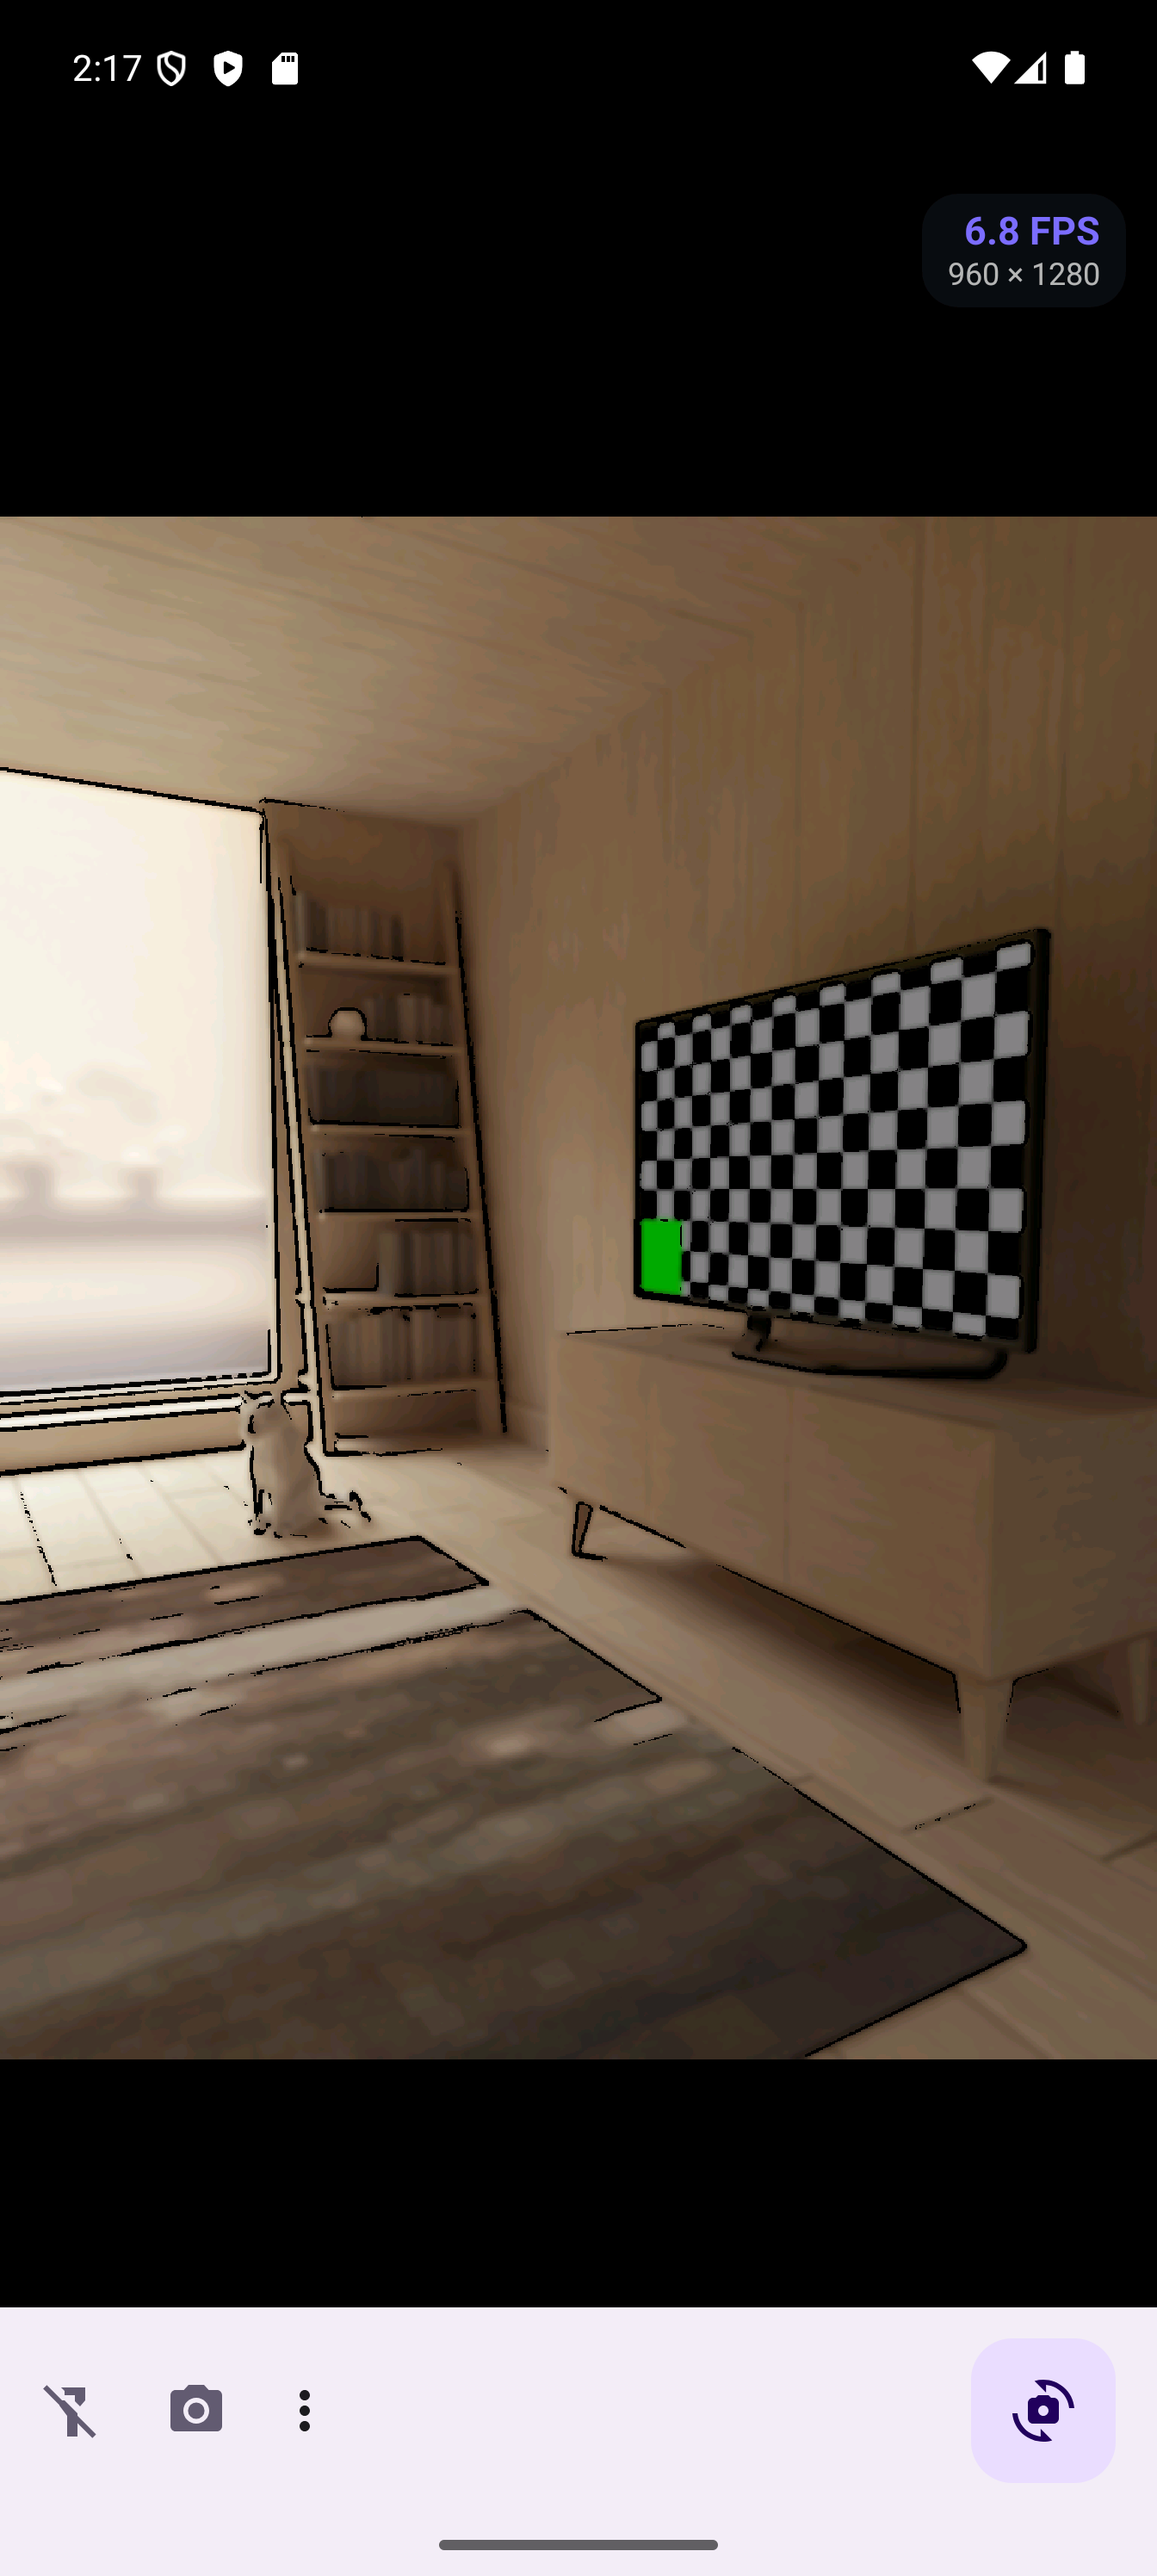
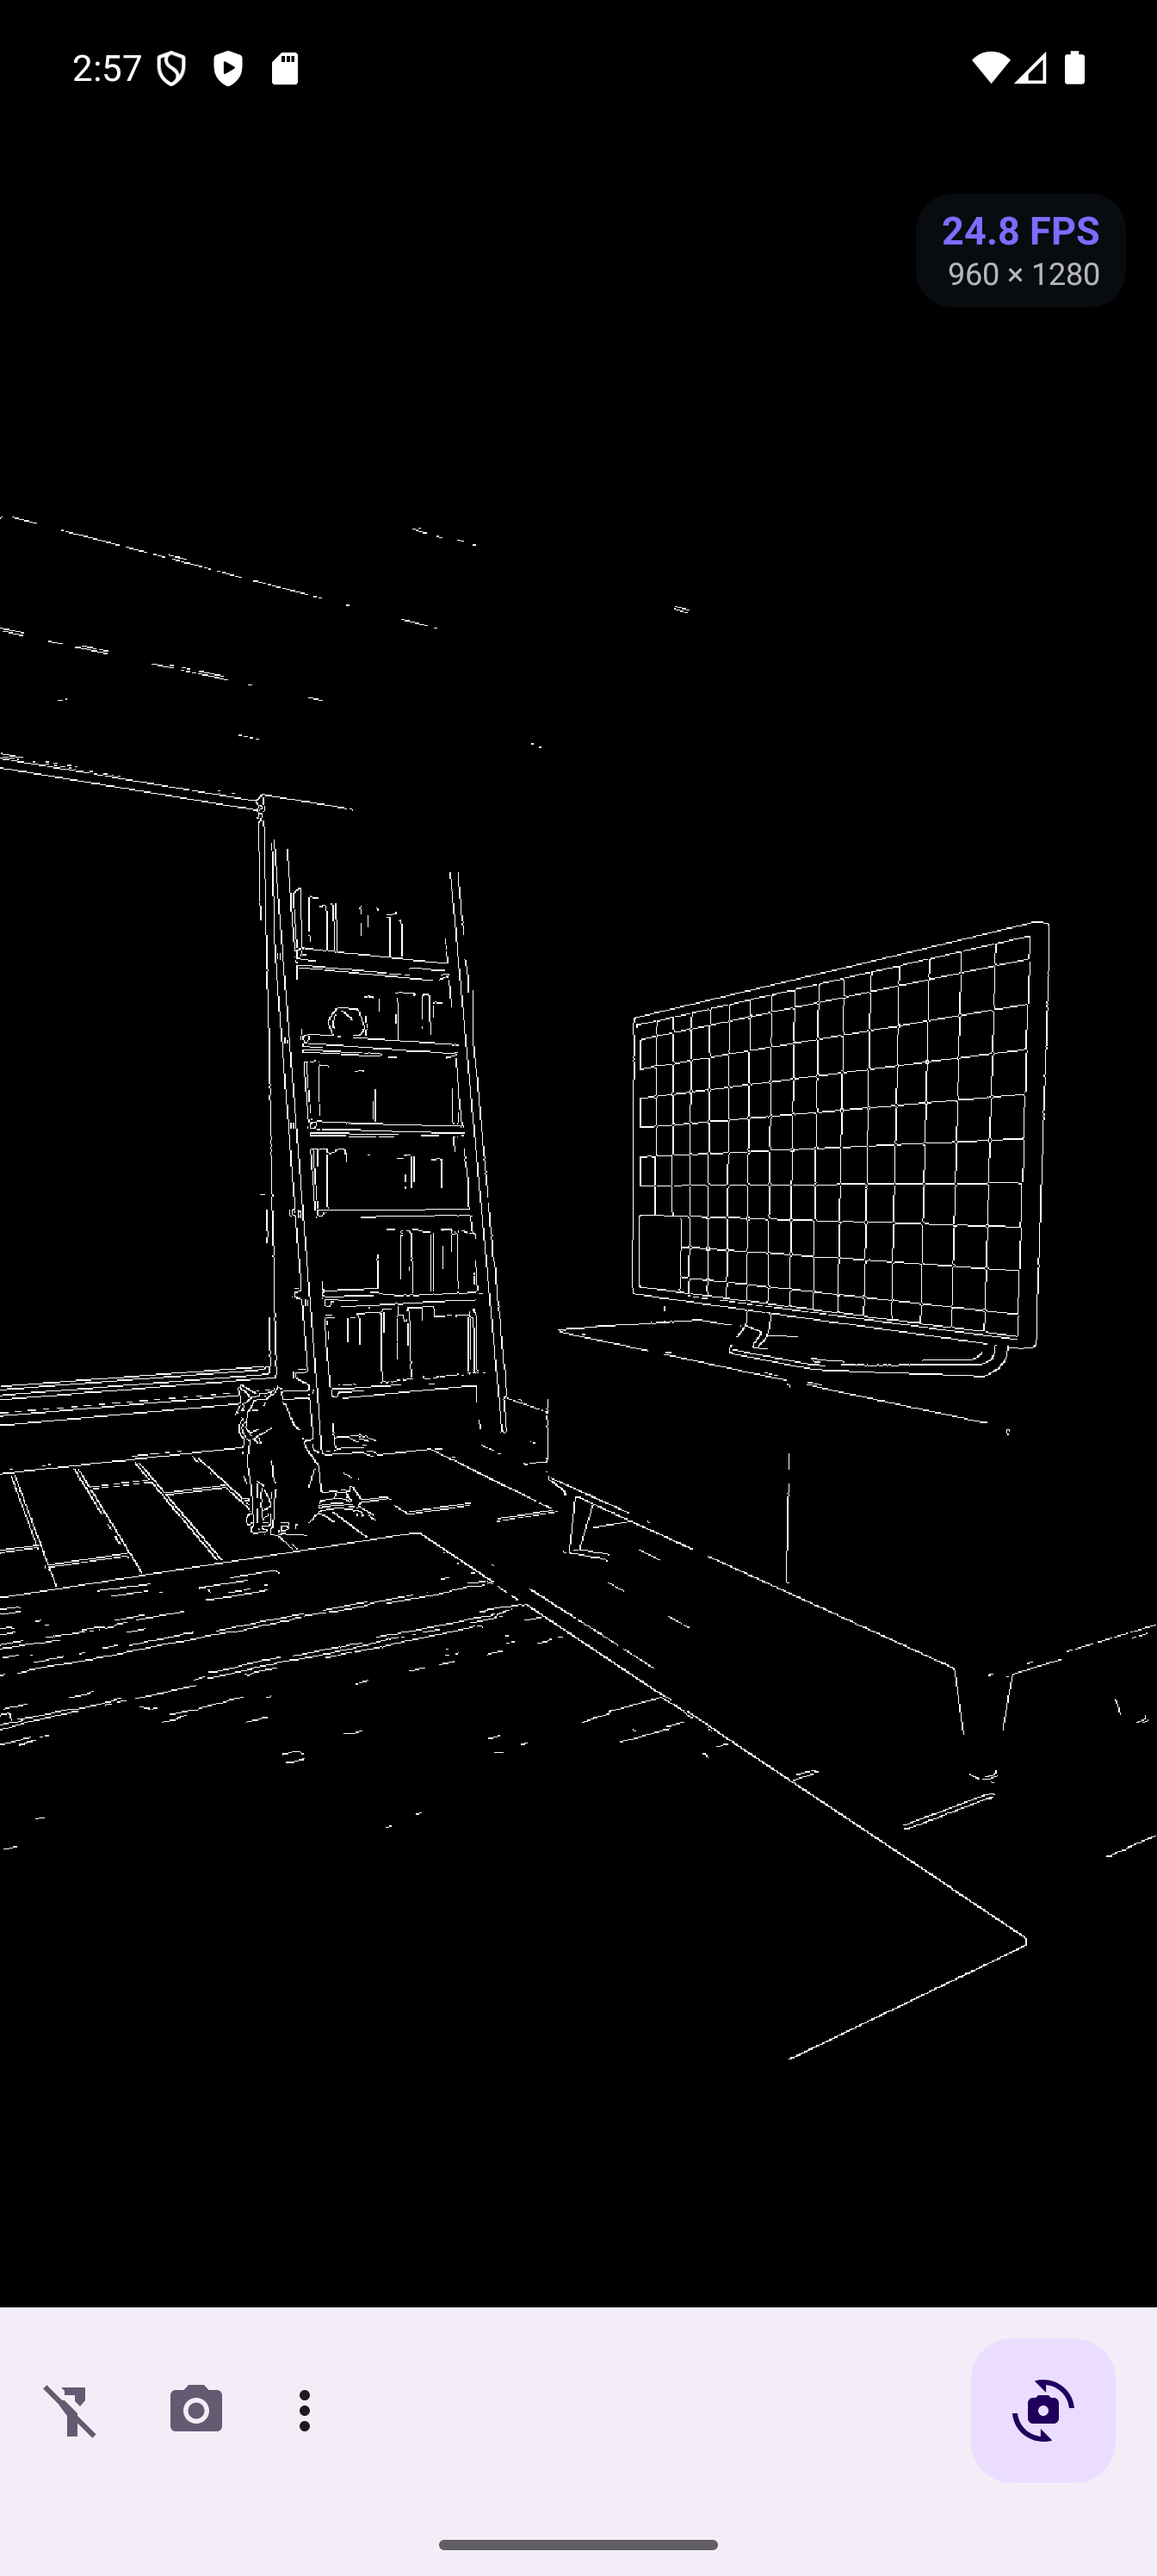
docs: use distinct preview images and drop em dashes

diff --git a/app/src/main/java/com/os/cvCamera/features/CameraFeature.kt b/app/src/main/java/com/os/cvCamera/features/CameraFeature.kt
@@ -53,8 +53,8 @@ interface CameraFeature {
     fun onCameraSwitched() = Unit
 
     /**
-     * A capture was requested and the frame is about to be encoded. Called on the camera thread —
-     * use this for shutter feedback so it lines up with the frame actually saved.
+     * A capture was requested and the frame is about to be encoded. Called on the camera thread,
+     * so this suits shutter feedback that must line up with the frame actually saved.
      */
     fun onPhotoCaptureStarted() = Unit
 

diff --git a/app/src/main/java/com/os/cvCamera/features/ShutterEffect.kt b/app/src/main/java/com/os/cvCamera/features/ShutterEffect.kt
@@ -23,7 +23,7 @@ class ShutterEffect(
     private val flashColor: Int = Color.WHITE,
 ) : CameraFeature {
     private companion object {
-        /** Rise is snappy, fall is slower — that asymmetry is what reads as a shutter. */
+        /** Rise is snappy and fall is slower. That asymmetry is what reads as a shutter. */
         const val FADE_IN_MS = 45L
         const val FADE_OUT_MS = 190L
         const val PEAK_ALPHA = 0.85f

diff --git a/README.md b/README.md
@@ -2,7 +2,7 @@
 
 # CvCamera-Mobile
 
-**A production-shaped OpenCV 4 camera template for Android — Camera2 preview, a native C++/JNI bridge, and every feature in its own pluggable file.**
+**A production-shaped OpenCV 4 camera template for Android. Camera2 preview, a native C++/JNI bridge, and every feature in its own pluggable file.**
 
 [![MIT](https://img.shields.io/badge/License-MIT-yellow?logo=MIT&logoColor=white)](https://opensource.org/license/mit/)
 [![OpenCV](https://img.shields.io/badge/OpenCV-4.14.0-5C3EE8?logo=OpenCV&logoColor=white)](https://opencv.org/)
@@ -20,7 +20,7 @@
 [![Conventional Commits](https://img.shields.io/badge/Conventional%20Commit-1.0.0-FE5196?logo=conventionalcommits&logoColor=white)](https://conventionalcommits.org)
 
 <img src="appPreview/appOverview.png" width="220" alt="Live preview with the FPS overlay"/>
-<img src="appPreview/appOverview2.png" width="220" alt="Effect applied to the live preview"/>
+<img src="appPreview/appOverview2.png" width="220" alt="Canny edge detection on the live preview"/>
 
 </div>
 
@@ -75,7 +75,7 @@ top. A new capability means a new file implementing `CameraFeature` plus one lin
 capability means deleting its file and its line.
 
 `CameraFeature` provides `attach`/`detach`, `onResume`/`onPause`, `onMenuItemSelected`,
-`processFrame`, `onCameraSwitched`, `onPhotoCaptureStarted` and `onPhotoSaved` — all optional.
+`processFrame`, `onCameraSwitched`, `onPhotoCaptureStarted` and `onPhotoSaved`, all optional.
 
 ## Getting started
 
@@ -126,11 +126,11 @@ emulator with "change of renderer detected".
           :app:lintDebug :app:testDebugUnitTest   # what CI runs
 ```
 
-* **Version catalog** — every dependency and SDK level lives in `gradle/libs.versions.toml`.
-* **Kotlin DSL** — all build scripts are `.kts`.
-* **Spotless + ktlint** — enforced in CI.
-* **Timber** — logging, debug builds only.
-* **Conventional commits** — enforced by convention; `cliff.toml` drives the changelog.
+* **Version catalog**: every dependency and SDK level lives in `gradle/libs.versions.toml`.
+* **Kotlin DSL**: all build scripts are `.kts`.
+* **Spotless + ktlint**: enforced in CI.
+* **Timber**: logging, debug builds only.
+* **Conventional commits**: enforced by convention; `cliff.toml` drives the changelog.
 
 `CvCheckUnitTest` asserts the linked OpenCV version, which is the guard that the SDK swap in
 `setupOpenCV_4x.sh` actually took effect.
